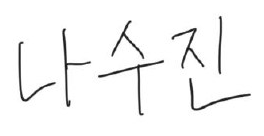
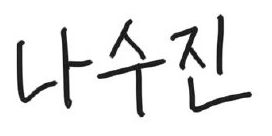
Replace bride handwritten name image

Changed region(s): [[0.3333, 0.0882, 0.8485, 0.8824], [0.0606, 0.2059, 0.3636, 0.7941], [0.6667, 0.5588, 0.9697, 0.8529]]

diff --git a/invitation.html b/invitation.html
@@ -444,7 +444,7 @@
           <img class="invite-signature" src="assets/박용태_필기체.png" alt="박용태" />
           <span aria-hidden="true">·</span>
           <span class="invite-role">신부</span>
-          <img class="invite-signature" src="assets/나수진_필기체.png" alt="나수진" />
+          <img class="invite-signature" src="assets/나수진_필기체.png?v=20260826-sujin2" alt="나수진" />
         </div>
       </div>
       <div class="invite-photo gsap-text">
